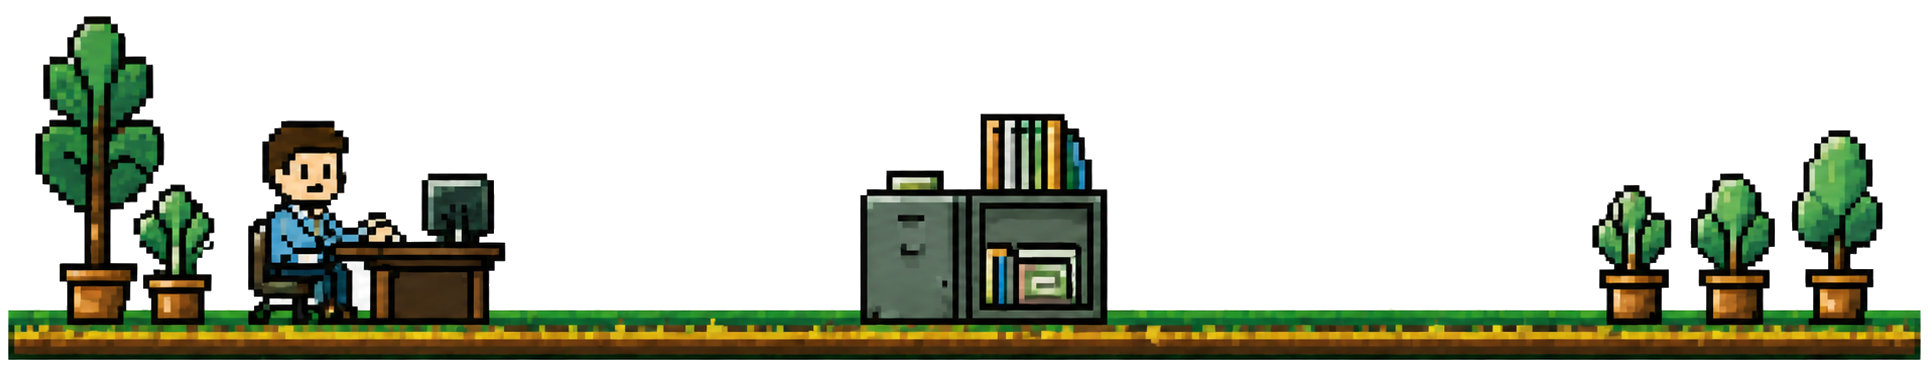
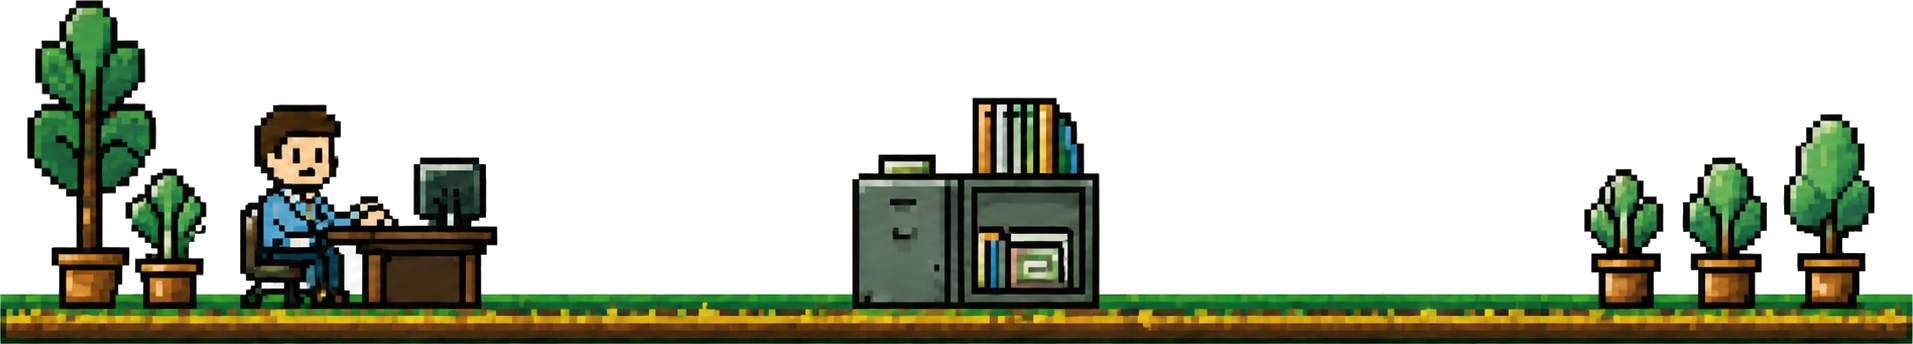
기능 카드 감싸던 테두리 박스 제거, 픽셀 오피스 이미지 좌우 여백 제거
- .intro-game-features에 씌워져 있던 진한 테두리/그림자/단색 배경 오버라이드를 제거해
  카드들이 별도 박스 없이 배경 위에 바로 놓이도록 함
- 픽셀 오피스 이미지의 좌우/상하 투명 여백을 잘라내 화면 끝까지 그림 내용이 꽉 차게 함

Changed region(s): [[0.0, 0.0, 1.0, 1.0]]

diff --git a/src/index.css b/src/index.css
@@ -234,14 +234,6 @@ body {
 .intro-business .intro-reviews { background: #f7f9fc !important; }
 .intro-section-title { color: #20362f; }
 .intro-business .intro-section-title { color: #172033; }
-.intro-game-features {
-  border: 3px solid #315d53;
-  border-radius: 10px !important;
-  background: #eaf5dc !important;
-  box-shadow: 8px 8px 0 rgba(49,93,83,.2);
-}
-.intro-game-features > .pointer-events-none { display: none; }
-.intro-game-features > .absolute.inset-x-0 { opacity: .48; }
 .intro-game .intro-game-feature-window { border-color: #315d53 !important; border-radius: 8px !important; background: #fffaf0 !important; box-shadow: 6px 6px 0 rgba(49,93,83,.25) !important; }
 .intro-game .intro-game-feature-window > div:first-child { border-color: #244f3d !important; background: #2f795d !important; }
 .intro-game .intro-game-feature-window > div:first-child > span { color: #fff !important; }
